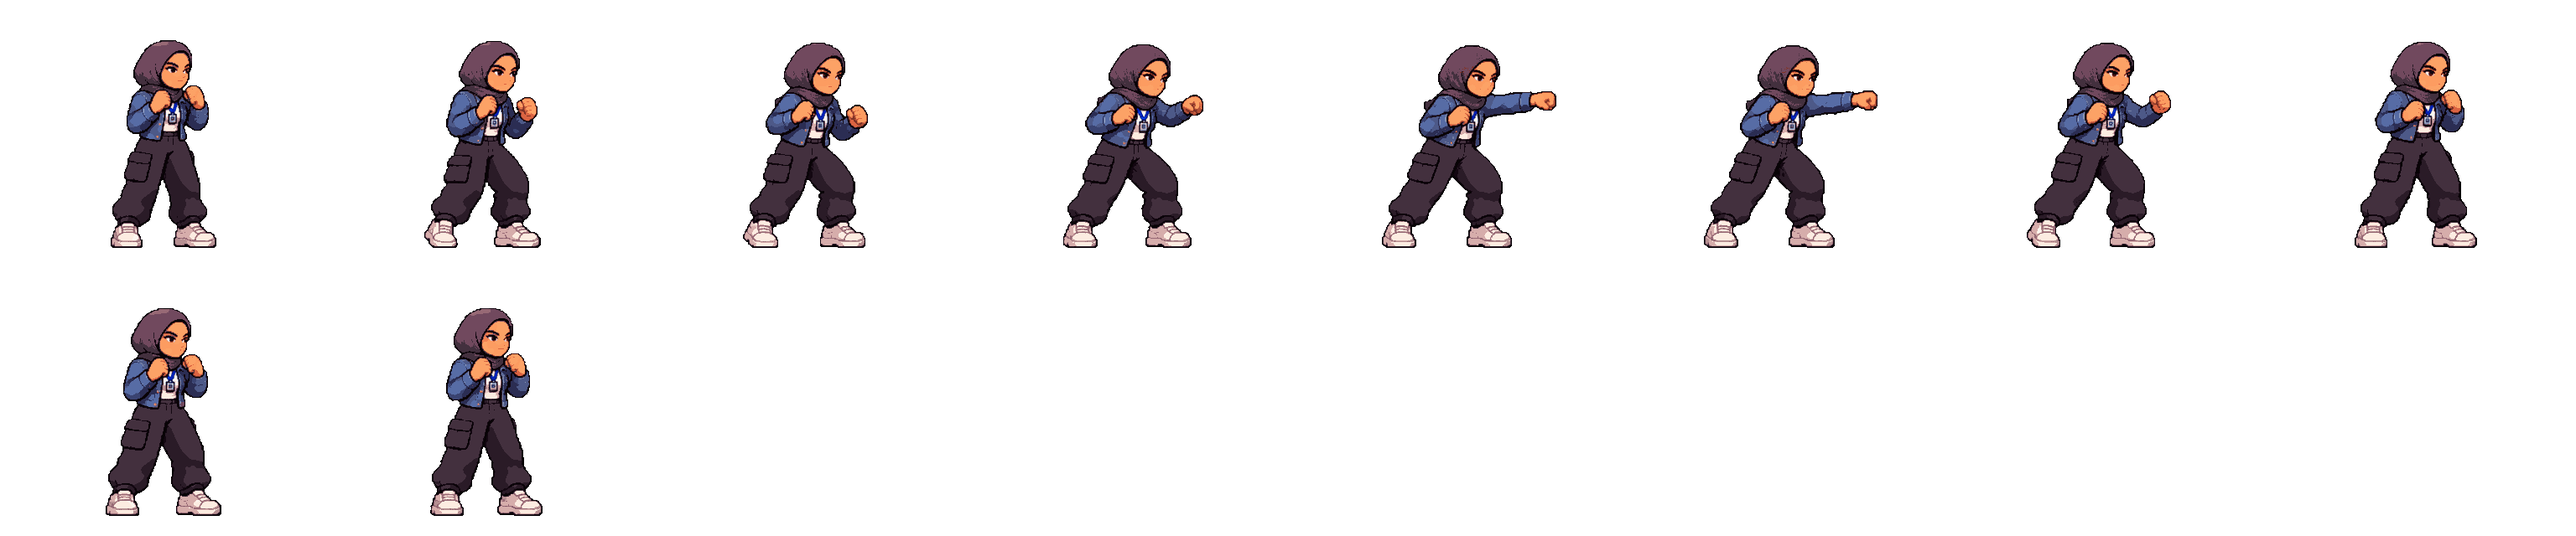
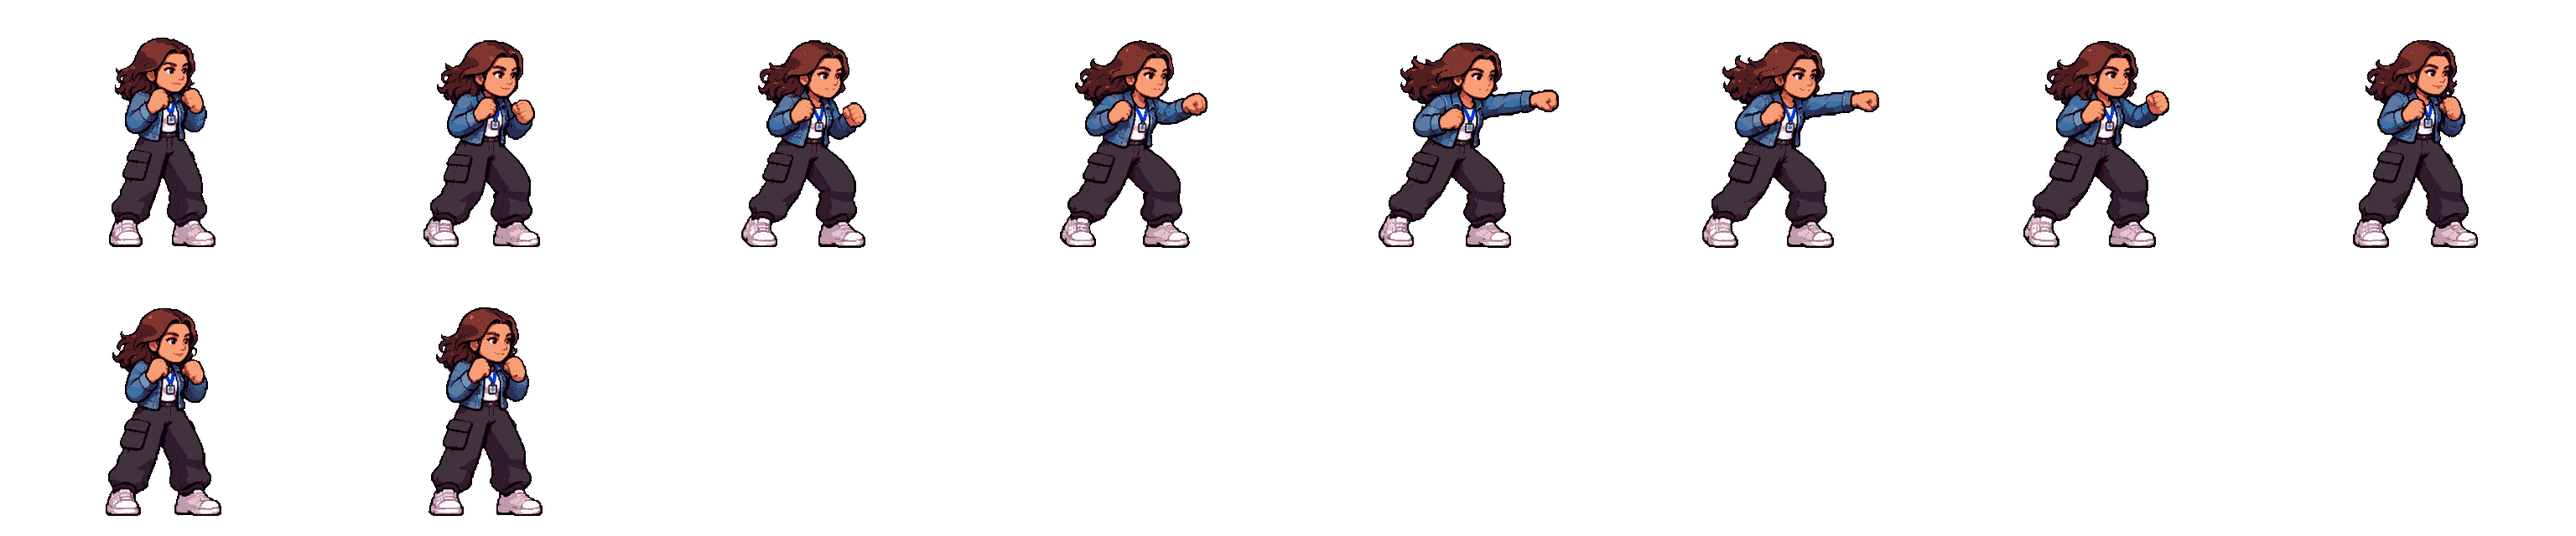
Zee re-skin: new hair look, all 18 animations and both grab strips regenerated, new HUD portrait

diff --git a/src/main.js b/src/main.js
@@ -1,14 +1,14 @@
 // Game shell: loads Zee, runs the loop, draws the placeholder office + HUD, wires pause / touch UI / animation viewer.
-import { CONFIG } from './config.js?v=202611220142';
-import { loadCharacter, VERSION, LOOK, setLight } from './assets.js?v=202611220142';
-import { Input } from './input.js?v=202611220142';
-import { Zee } from './zee.js?v=202611220142';
-import { Game } from './game.js?v=202611220142';
-import { ENEMY_IDS } from './enemy.js?v=202611220142';
-import { drawHud as drawArcadeHud } from './hud.js?v=202611220142';
-import { Level, qualityDepartment } from './level.js?v=202611220142';
-import { Camera } from './camera.js?v=202611220142';
-import { unlock } from './sfx.js?v=202611220142';
+import { CONFIG } from './config.js?v=202611220206';
+import { loadCharacter, VERSION, LOOK, setLight } from './assets.js?v=202611220206';
+import { Input } from './input.js?v=202611220206';
+import { Zee } from './zee.js?v=202611220206';
+import { Game } from './game.js?v=202611220206';
+import { ENEMY_IDS } from './enemy.js?v=202611220206';
+import { drawHud as drawArcadeHud } from './hud.js?v=202611220206';
+import { Level, qualityDepartment } from './level.js?v=202611220206';
+import { Camera } from './camera.js?v=202611220206';
+import { unlock } from './sfx.js?v=202611220206';
 
 const { w: W, h: H } = CONFIG.view;
 const canvas = document.getElementById('game');

diff --git a/src/enemy.js b/src/enemy.js
@@ -1,9 +1,9 @@
 // Enemy: a fighter with a small brain. It lines up with Zee, flanks, chains combos, sidesteps her swings, punishes her recovery,
 // throws call-centre headsets, and (navy + sporty, the "heavies") grabs and throws her.
 // Art comes from assets/characters/<id>/ ; every enemy shares this one brain.
-import { CONFIG } from './config.js?v=202611220142';
-import { frameAt, drawAnim, silhouette, LOOK } from './assets.js?v=202611220142';
-import { SOFT } from './zee.js?v=202611220142';
+import { CONFIG } from './config.js?v=202611220206';
+import { frameAt, drawAnim, silhouette, LOOK } from './assets.js?v=202611220206';
+import { SOFT } from './zee.js?v=202611220206';
 
 const E = CONFIG.enemy;
 const rnd = (a, b) => a + Math.random() * (b - a);

diff --git a/src/level.js b/src/level.js
@@ -20,8 +20,8 @@
 //   light: { rim, rimAlpha, rimPx, lightX, lightY, wash, washAlpha, feet } = how Zee and the enemies are lit in this room
 //   (rim / wash are [r,g,b]); the game eases from one room's light to the next (see setLight in assets.js).
 //   doorRight is the door to the NEXT room: while it is locked the player cannot pass it; no door (or unlocked) = open.
-import { CONFIG } from './config.js?v=202611220142';
-import { VERSION } from './assets.js?v=202611220142';
+import { CONFIG } from './config.js?v=202611220206';
+import { VERSION } from './assets.js?v=202611220206';
 
 const C = CONFIG.camera, F = CONFIG.floor;
 export const LAYER_H = 507;                       // layer height in pixels (the view shows 506.25)

diff --git a/src/hud.js b/src/hud.js
@@ -1,8 +1,8 @@
 // Arcade HUD (early-2000s style): angled panels with white outlines, glossy bars, bold italic type.
 // Built from separate pieces drawn in game units, so it scales with the canvas at any resolution.
 // Top-left: portrait + HP bar + SP meter. Bottom-left: KO counter. All values come from the live game state.
-import { CONFIG } from './config.js?v=202611220142';
-import { VERSION } from './assets.js?v=202611220142';
+import { CONFIG } from './config.js?v=202611220206';
+import { VERSION } from './assets.js?v=202611220206';
 
 const portrait = new Image();
 portrait.src = 'assets/ui/zee_portrait.png?v=' + VERSION;

diff --git a/src/camera.js b/src/camera.js
@@ -1,7 +1,7 @@
 // The world camera. The world is drawn through a zoomed-out camera (CONFIG.camera.zoom, about 0.71): 900 x 506 world units
 // are visible and rendered into the 640 x 360 screen. The camera follows Zee horizontally (with a little look-ahead in the
 // direction she faces) and is clamped to the level. It never scrolls vertically: the world is exactly one screen tall.
-import { CONFIG } from './config.js?v=202611220142';
+import { CONFIG } from './config.js?v=202611220206';
 
 export class Camera {
   constructor() { this.x = 0; this.px = 0; this.gx = 0; this.look = 0; this.ready = false; }

diff --git a/src/game.js b/src/game.js
@@ -1,8 +1,8 @@
 // Game world: Zee + enemies, combat resolution, projectiles and all the "juice" (hit flash, sparks, shake, hit-stop, sound).
-import { CONFIG } from './config.js?v=202611220142';
-import { Enemy } from './enemy.js?v=202611220142';
-import { SOFT } from './zee.js?v=202611220142';
-import { sfx } from './sfx.js?v=202611220142';
+import { CONFIG } from './config.js?v=202611220206';
+import { Enemy } from './enemy.js?v=202611220206';
+import { SOFT } from './zee.js?v=202611220206';
+import { sfx } from './sfx.js?v=202611220206';
 
 const E = CONFIG.enemy;
 

diff --git a/src/zee.js b/src/zee.js
@@ -1,7 +1,7 @@
 // Zee: the player character. A small state machine driven by input actions.
 // Movement, combat timing, and animation selection live here; art comes from the manifest (assets.js).
-import { CONFIG } from './config.js?v=202611220142';
-import { frameAt, drawAnim, silhouette, LOOK } from './assets.js?v=202611220142';
+import { CONFIG } from './config.js?v=202611220206';
+import { frameAt, drawAnim, silhouette, LOOK } from './assets.js?v=202611220206';
 
 const C = CONFIG.zee;
 const FREE = new Set(['idle', 'walk', 'run', 'makeup']);

diff --git a/src/assets.js b/src/assets.js
@@ -1,6 +1,6 @@
 // Loads a character's manifest + strips and turns them into ready-to-play animation objects.
 // To swap art, replace the PNG strips / manifest in assets/characters/<name>/ - no code changes needed.
-import { CONFIG } from './config.js?v=202611220142';
+import { CONFIG } from './config.js?v=202611220206';
 
 // Release stamp, taken from this module's own URL (?v=...): every release uses new URLs so browsers never serve stale files.
 export const VERSION = new URL(import.meta.url).searchParams.get('v') || 'dev';

diff --git a/index.html b/index.html
@@ -128,7 +128,7 @@
 <div id="rotate"><div><h2>Rotate your phone</h2><p style="color:var(--mute)">This game plays in landscape.</p></div></div>
 <div id="loading"><div><div class="lt">CALL TERMINATED</div><div class="ls">is loading...</div></div></div>
 
-<script type="module" src="src/main.js?v=202611220142"></script>
+<script type="module" src="src/main.js?v=202611220206"></script>
 </body>
 </html>
 

diff --git a/src/input.js b/src/input.js
@@ -1,6 +1,6 @@
 // Unified input: keyboard on PC/laptop, floating joystick + buttons on touch devices.
 // The game only reads: input.axis (x,y in -1..1), input.run, and input.consume() (one-shot actions).
-import { CONFIG } from './config.js?v=202611220142';
+import { CONFIG } from './config.js?v=202611220206';
 
 export class Input {
   constructor(root = document) {

diff --git a/HANDOFF.md b/HANDOFF.md
@@ -61,3 +61,6 @@ After any work, add a dated line under "Decisions and changes" and adjust "Next 
   Re-encoded to assets/levels/r01_quality_department.webp (223 KB). ffmpeg gotcha: libwebp lossy ignores -quality / -global_quality here; use `-q:v 95 -preset picture` (ffmpeg is at the WinGet FFmpeg package folder, `where ffmpeg`). sprites/levels/r01_door_reference.png re-cut from the shrunk door (372x726, 3x).
 
 - 2026-11-22 (4): R01 ART v3 (the user's ChatGPT redraw with doors at BOTH ends, no bottom-corner plants). Measured vs the standard (img px; 1 m = 103 px; Zee 169 px): doors were again 131 x 294 px (2.85 m, the old oversize), so Claude shrank BOTH to 96 x 215 px (0.9 x 2.1 m, foot at image y 496; right door frame x 1840-1935, left door x 50-145 = world x 1435-1509 and 39-113) and repainted the wall/stripes/baseboard behind each, plus the floor under the right door (a smaller reflection was drawn for both). Everything else is realistic: desks ~83 px (0.8 m), chairs ~110 px (1.07 m), copier 136 px (1.3 m), credenza/counter ~84 px (0.82 m). NOT fixed on purpose: the filing cabinet is 162 px (1.6 m, ~30% too tall; fixing it would mean repainting the window behind it) and monitors/plant are slightly large. Floor line unchanged (baseboard bottom ~487 = world Y ~366-367). Which door connects to R02 is undecided. Lesson: ChatGPT ignores exact pixel sizes, so measure every delivered room and fix door size directly (scripts used: scratchpad shrink-doors3.ps1 pattern: cut door, repaint rows by blending the wall left/right of the gap with a slight slope, paste door at 0.7313, flipped faded reflection).
+
+## Zee re-skin (v4)
+Zee now has brown wavy shoulder-length hair (no hijab). Master: sprites/zee/master/zee_master_idle_v2.png. All 18 sheets are *_v4.png, made by attaching the new master + the old sheet to ChatGPT and asking for the same grid/poses with only the head changed. Navy/sporty grab sheets were re-skinned the same way. HUD portrait was rebuilt from the master head.
